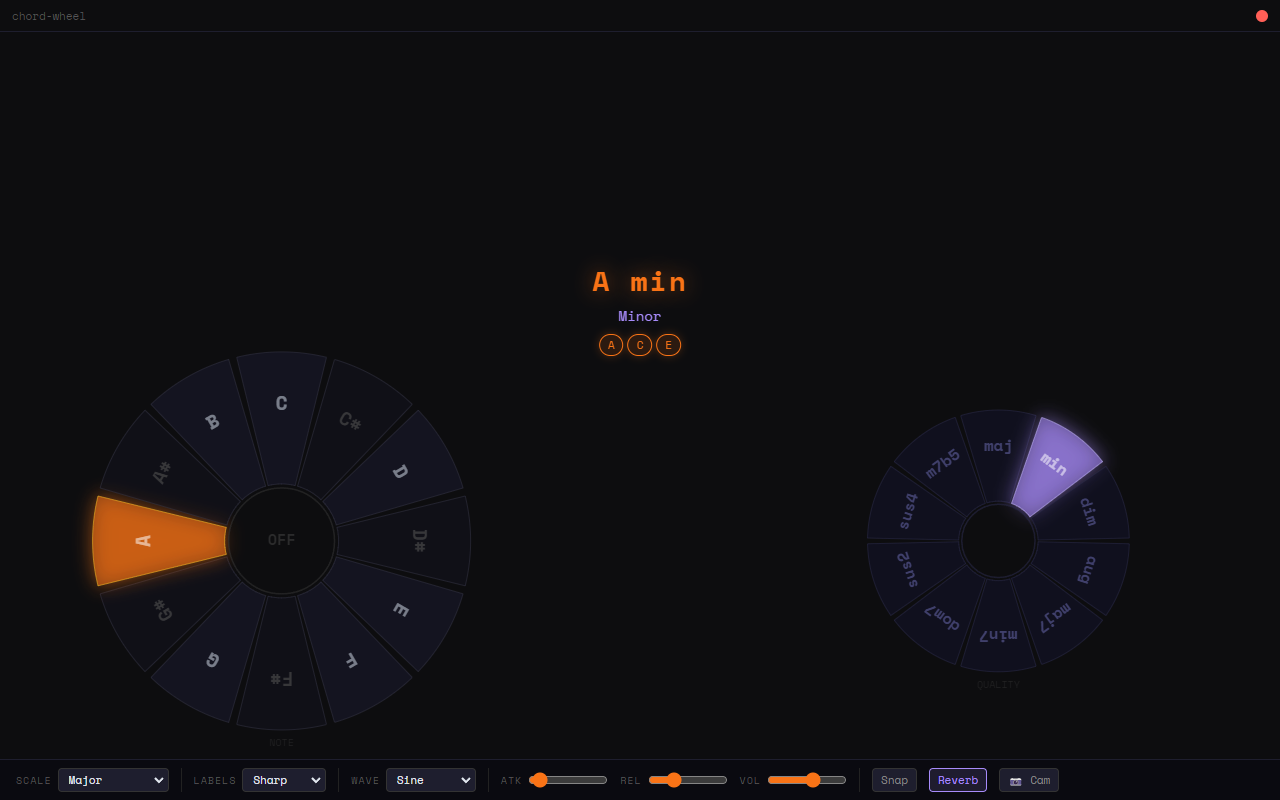
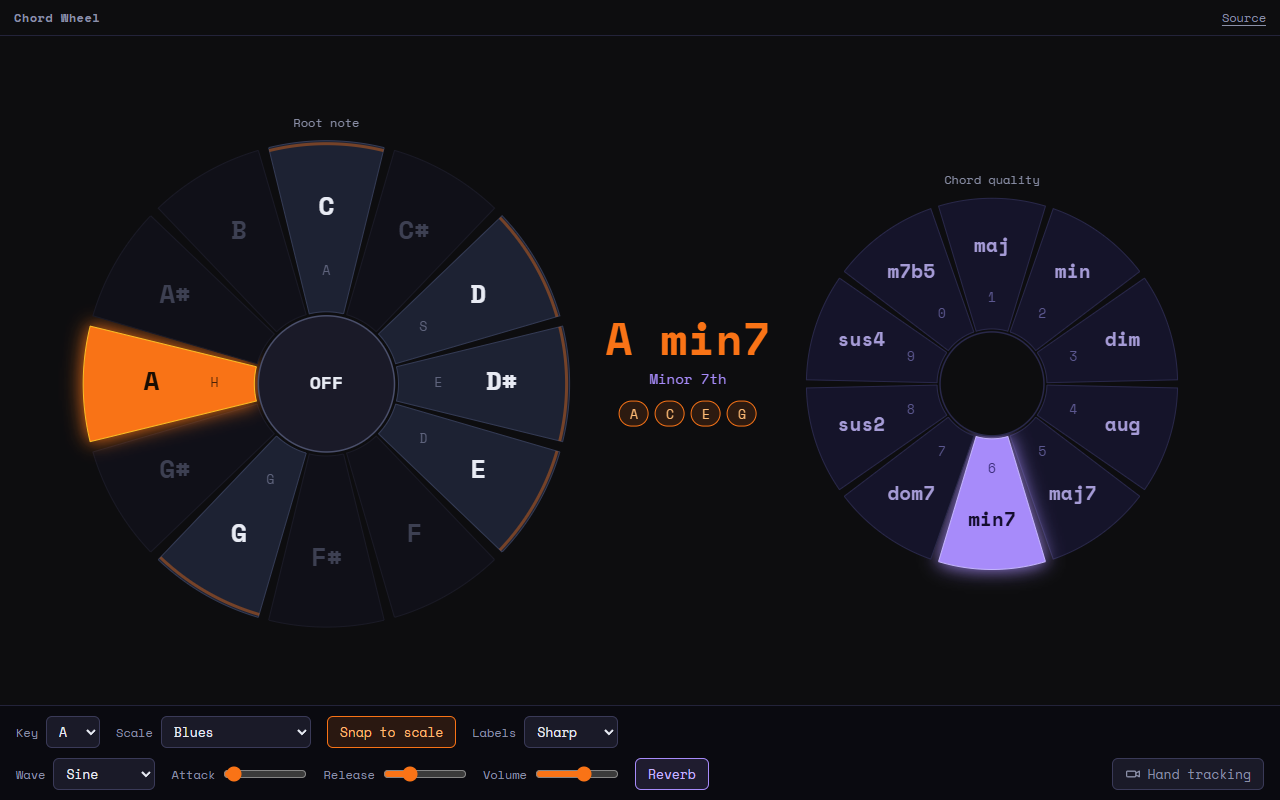
Describe the web version, keyboard and keys in the README

diff --git a/README.md b/README.md
@@ -2,15 +2,18 @@
 
 [![Tests](https://github.com/nguyenhanhatminh0105-hue/Chord-Wheel/actions/workflows/tests.yml/badge.svg)](https://github.com/nguyenhanhatminh0105-hue/Chord-Wheel/actions/workflows/tests.yml)
 
-An Electron desktop app that lets you explore and play chords interactively. Click the wheel to trigger notes, or enable the webcam and use hand gestures via MediaPipe to play hands-free.
+**[Live demo](https://nguyenhanhatminh0105-hue.github.io/Chord-Wheel/)**: runs in the browser, nothing to install.
 
-![Playing A minor: the note and quality wheels, with the chord spelled out above](docs/screenshot.png)
+Explore and play chords on two wheels: one picks the root note, the other the chord quality. Play with the mouse, the computer keyboard, or your hands in front of a webcam (tracked with MediaPipe). It runs as an Electron desktop app and, from the same files, as a web page.
+
+![Playing A minor 7th in A blues: the note wheel on the left, the quality wheel on the right, and the chord spelled out between them](docs/screenshot.png)
 
 ## Features
 
-- **Interactive chord wheel** — click any slice to play a chord
-- **Hand tracking** — optional webcam mode using MediaPipe; point to play
-- **9 scales** — Major, Minor, Pentatonic, Blues, Dorian, Phrygian, Lydian, Mixolydian, Harmonic Minor
+- **Interactive chord wheel** — hold any slice to play a chord, and change the quality while it sounds
+- **Keyboard** — `A` to `J` play the twelve notes (home row for white keys, the row above for black), `1` to `0` pick the quality
+- **Hand tracking** — optional webcam mode using MediaPipe; left hand picks the note, right hand the quality
+- **12 keys, 9 scales** — Major, Minor, Pentatonic, Blues, Dorian, Phrygian, Lydian, Mixolydian, Harmonic Minor. Notes in the scale are marked on the wheel
 - **10 chord qualities** — maj, min, dim, aug, maj7, min7, dom7, sus2, sus4, m7b5
 - **Built-in synthesizer** — sine, triangle, sawtooth, or square wave with attack/release envelope
 - **Reverb** and **volume** controls
@@ -27,6 +30,16 @@ npm start
 Requires Node.js and a webcam (optional, for hand tracking).
 
 On Windows, `launch.vbs` (which calls `launch.bat`) offers a double-click, no-terminal way to start the app once the repo path inside `launch.bat` is updated to match your local checkout.
+
+## Web version
+
+`index.html` needs no build step and no Electron: serve the folder and open it.
+
+```bash
+npx http-server .
+```
+
+In a browser the hand-tracking model is loaded from a CDN the first time the camera is switched on. In Electron it is read from `node_modules`.
 
 ## Tests
 
